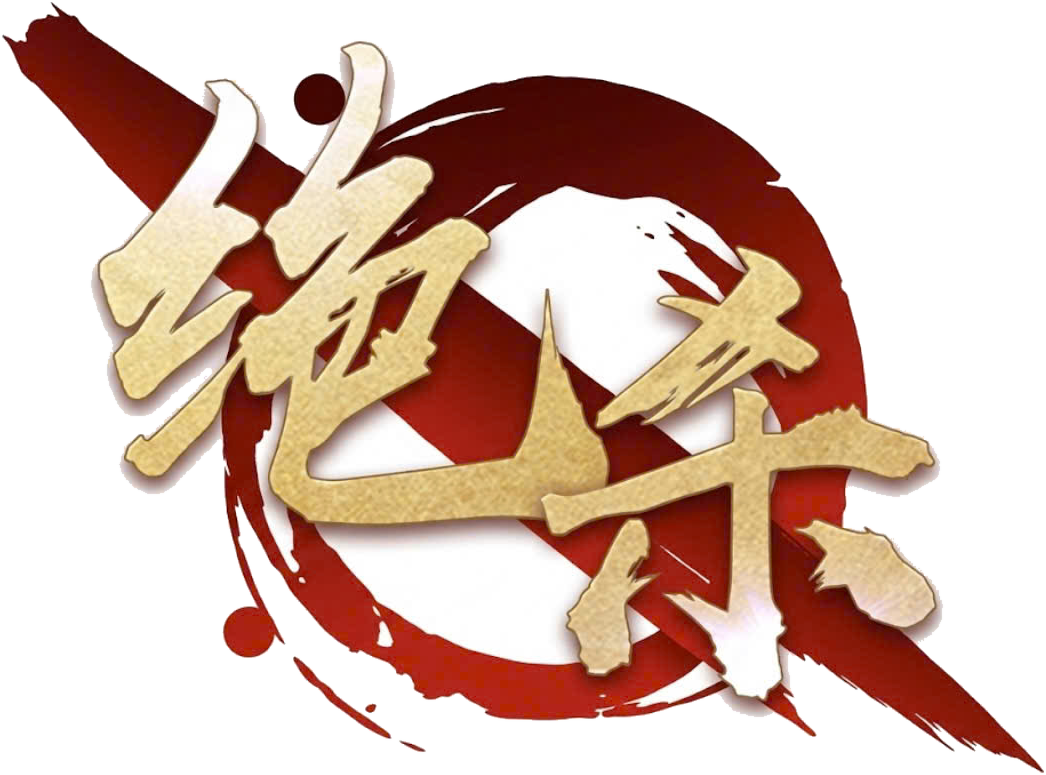
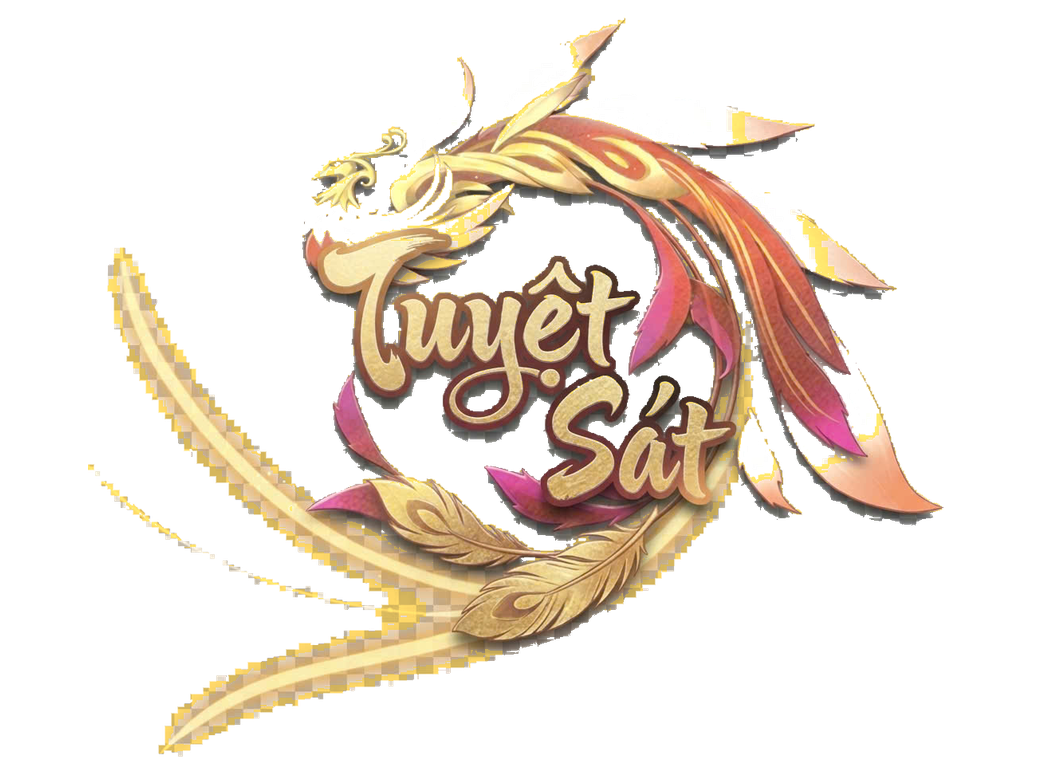
Replace checkmate burst effect

diff --git a/analysis-app/public/portal.css b/analysis-app/public/portal.css
@@ -953,6 +953,10 @@ a {
   animation: satBurstFade 3000ms cubic-bezier(0.18, 0.84, 0.22, 1) forwards;
 }
 
+.checkmate-burst.show img {
+  animation: satBurstFloat 3000ms cubic-bezier(0.16, 0.86, 0.18, 1) forwards;
+}
+
 @keyframes satBurstFade {
   0% {
     opacity: 0;
@@ -969,6 +973,25 @@ a {
   100% {
     opacity: 0;
     transform: translate(-50%, -50%) scale(1.08) rotate(0deg);
+  }
+}
+
+@keyframes satBurstFloat {
+  0% {
+    transform: translateY(10px) scale(0.96);
+    filter: brightness(1.18) saturate(1.18);
+  }
+  12% {
+    transform: translateY(0) scale(1);
+    filter: brightness(1.08) saturate(1.12);
+  }
+  55% {
+    transform: translateY(-3px) scale(1.015);
+    filter: brightness(1.03) saturate(1.08);
+  }
+  100% {
+    transform: translateY(-12px) scale(1.035);
+    filter: brightness(1) saturate(1);
   }
 }
 

diff --git a/analysis-app/public/styles.css b/analysis-app/public/styles.css
@@ -409,6 +409,10 @@ h2 {
   animation: satBurstFade 3000ms cubic-bezier(0.18, 0.84, 0.22, 1) forwards;
 }
 
+.checkmate-burst.show img {
+  animation: satBurstFloat 3000ms cubic-bezier(0.16, 0.86, 0.18, 1) forwards;
+}
+
 @keyframes satBurstFade {
   0% {
     opacity: 0;
@@ -425,6 +429,25 @@ h2 {
   100% {
     opacity: 0;
     transform: translate(-50%, -50%) scale(1.08) rotate(0deg);
+  }
+}
+
+@keyframes satBurstFloat {
+  0% {
+    transform: translateY(10px) scale(0.96);
+    filter: brightness(1.18) saturate(1.18);
+  }
+  12% {
+    transform: translateY(0) scale(1);
+    filter: brightness(1.08) saturate(1.12);
+  }
+  55% {
+    transform: translateY(-3px) scale(1.015);
+    filter: brightness(1.03) saturate(1.08);
+  }
+  100% {
+    transform: translateY(-12px) scale(1.035);
+    filter: brightness(1) saturate(1);
   }
 }
 

diff --git a/analysis-app/public/service-worker.js b/analysis-app/public/service-worker.js
@@ -1,12 +1,12 @@
-const CACHE_NAME = "dmaihxcai-shell-v128";
+const CACHE_NAME = "dmaihxcai-shell-v129";
 const STATIC_ASSETS = [
   "/",
   "/index.html",
   "/analysis.html",
-  "/portal.css?v=20260710-room-v63",
-  "/portal.js?v=20260710-room-v89",
-  "/styles.css?v=[phone redacted]-mobile-v62",
-  "/app.js?v=[phone redacted]-mobile-v75",
+  "/portal.css?v=20260710-room-v64",
+  "/portal.js?v=20260710-room-v90",
+  "/styles.css?v=[phone redacted]-mobile-v63",
+  "/app.js?v=[phone redacted]-mobile-v76",
   "/config.js",
   "/xiangqi-core.js",
   "/manifest.webmanifest",

diff --git a/analysis-app/public/portal.js b/analysis-app/public/portal.js
@@ -15,7 +15,7 @@
   const STORAGE_BOARD_SKIN = "dmaihxcai-board-skin";
   const STORAGE_PIECE_SKIN = "dmaihxcai-piece-skin";
   const DEVICE_AVATAR_VERSION = "20260710-v4";
-  const ASSET_WARMUP_VERSION = "20260710-v94";
+  const ASSET_WARMUP_VERSION = "20260710-v95";
   const PORTAL_ASSET_BLOCK_MS = 1800;
   const PORTAL_ASSET_TIMEOUT_MS = 2400;
   const PORTAL_PRELOAD_TEXT = {
@@ -101,8 +101,8 @@
   };
   const ANALYSIS_PRELOAD_ASSETS = [
     "/analysis.html",
-    "/styles.css?v=[phone redacted]-mobile-v62",
-    "/app.js?v=[phone redacted]-mobile-v75",
+    "/styles.css?v=[phone redacted]-mobile-v63",
+    "/app.js?v=[phone redacted]-mobile-v76",
     "/assets/board/board-skin-dark.svg",
     "/assets/board/board-skin-light.svg",
     "/assets/board/board-skin-mobile.svg",

diff --git a/analysis-app/public/analysis.html b/analysis-app/public/analysis.html
@@ -31,7 +31,7 @@
     <link rel="preload" href="/assets/board/board-skin-gold.svg" as="image">
     <link rel="preload" href="/assets/board/board-skin-stone.svg" as="image">
     <link rel="preload" href="/assets/board/board-skin-emerald.svg" as="image">
-    <link rel="stylesheet" href="/styles.css?v=[phone redacted]-mobile-v62">
+    <link rel="stylesheet" href="/styles.css?v=[phone redacted]-mobile-v63">
   </head>
   <body>
     <header class="app-header">
@@ -235,7 +235,7 @@
       </div>
     </div>
     <script src="/config.js"></script>
-    <script src="/app.js?v=[phone redacted]-mobile-v75"></script>
+    <script src="/app.js?v=[phone redacted]-mobile-v76"></script>
     <script>
       const backButton = document.getElementById("backButton");
       if (backButton) {

diff --git a/analysis-app/public/index.html b/analysis-app/public/index.html
@@ -40,7 +40,7 @@
     <link rel="preload" href="/assets/board/board-skin-gold.svg" as="image">
     <link rel="preload" href="/assets/board/board-skin-stone.svg" as="image">
     <link rel="preload" href="/assets/board/board-skin-emerald.svg" as="image">
-    <link rel="stylesheet" href="/portal.css?v=20260710-room-v63">
+    <link rel="stylesheet" href="/portal.css?v=20260710-room-v64">
   </head>
   <body>
     <header class="portal-header">
@@ -577,7 +577,7 @@
     </div>
 
     <script src="/xiangqi-core.js"></script>
-    <script src="/portal.js?v=20260710-room-v89"></script>
+    <script src="/portal.js?v=20260710-room-v90"></script>
     <script>
       if ("serviceWorker" in navigator) {
         window.addEventListener("load", () => {

diff --git a/analysis-app/public/app.js b/analysis-app/public/app.js
@@ -71,7 +71,7 @@ const AUTH_TOKEN_STORAGE_KEY = "license_token";
 const LEGACY_AUTH_TOKEN_STORAGE_KEY = "dmaihxcai-auth-token";
 const AUTH_USER_STORAGE_KEY = "dmaihxcai-auth-user";
 const ANALYSIS_ASSET_WARMUP_KEY = "dmaihxcai-analysis-assets-version";
-const ANALYSIS_ASSET_WARMUP_VERSION = "20260710-v67";
+const ANALYSIS_ASSET_WARMUP_VERSION = "20260710-v68";
 const ANALYSIS_ASSET_BLOCK_MS = 1800;
 const ANALYSIS_ASSET_TIMEOUT_MS = 2400;
 const ANALYSIS_MOVE_ANIMATION_MS = 228;